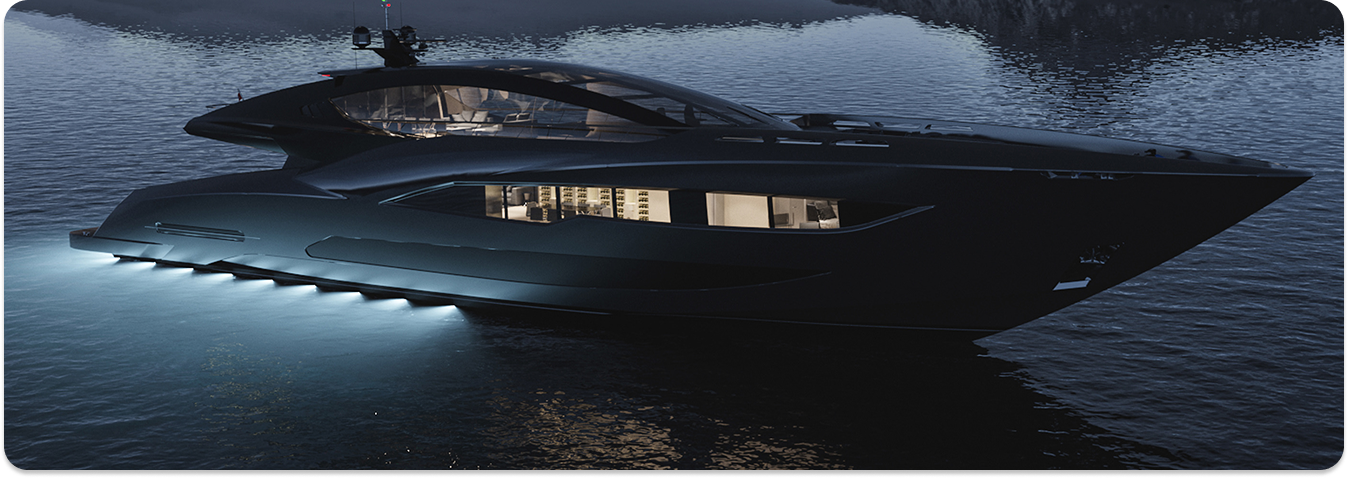
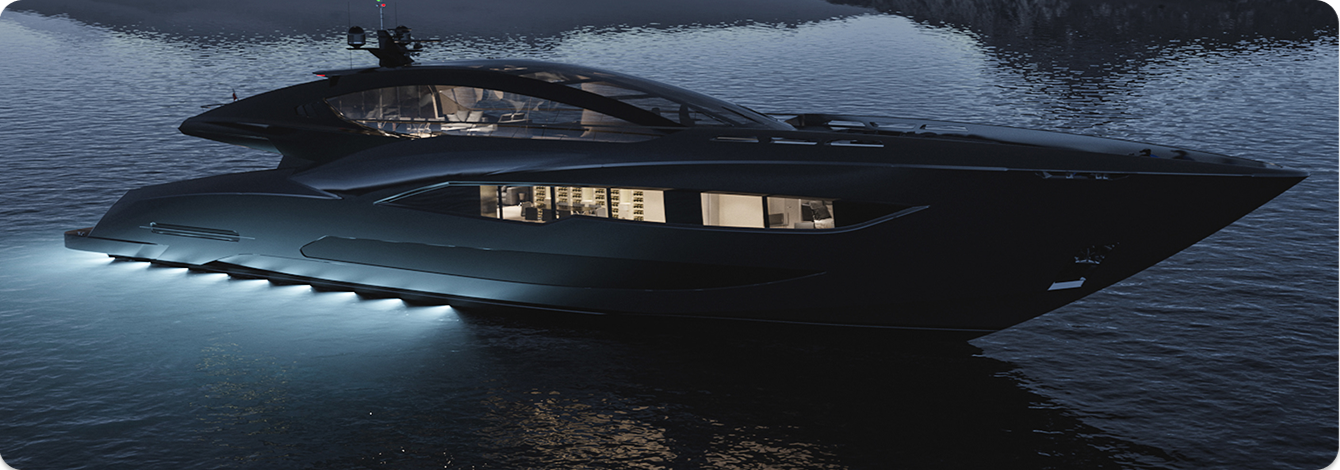
final edit

diff --git a/index.html b/index.html
@@ -75,7 +75,7 @@
       <!-- #region preferencec-->
       <section class="page-preferences">
         <div class="container">
-          <div class="page-preferences-wrap-position">
+          <div class="page-preferences-wrap-text">
             <div class="page-preferences-wrap">
               <h2 class="page-preferences-title">
                 YachtJet fleet is here to take you on the ultimate adventure
@@ -95,14 +95,11 @@
                 </p>
               </div>
             </div>
-            <div class="page-preferences-picture-wrap">
-              <img
-                src="./images/central-yacht-new.png"
-                alt="yacht on the water"
-                width="1340"
-                height="470"
-              />
-            </div>
+            <img
+              class="page-preferences-picture"
+              src="./images/central-yacht-new-2.png"
+              alt="yacht on the water"
+            />
           </div>
         </div>
       </section>

diff --git a/css/styles.css b/css/styles.css
@@ -188,10 +188,9 @@ body {
   color: #1b414b;
   background-color: #fbfbfb;
 }
-.page-preferences-wrap-position {
+.page-preferences-wrap-text {
+  height: 770px;
   position: relative;
-  width: 1340px;
-  height: 825px;
 }
 .page-preferences-wrap {
   background-color: #fbfbfb;
@@ -205,19 +204,17 @@ body {
   top: -50px;
   left: 50px;
   right: 50px;
+  z-index: 3;
 }
 
-.page-preferences-picture-wrap {
+.page-preferences-picture {
   width: 1340px;
   height: 470px;
   position: absolute;
-  top: 351px;
+  top: 300px;
   left: 50px;
   display: block;
-}
-.page-preferences-picture-wrap img {
-  width: 100%;
-  height: 100%;
+  z-index: 4;
 }
 
 .page-preferences-wrap-text {
